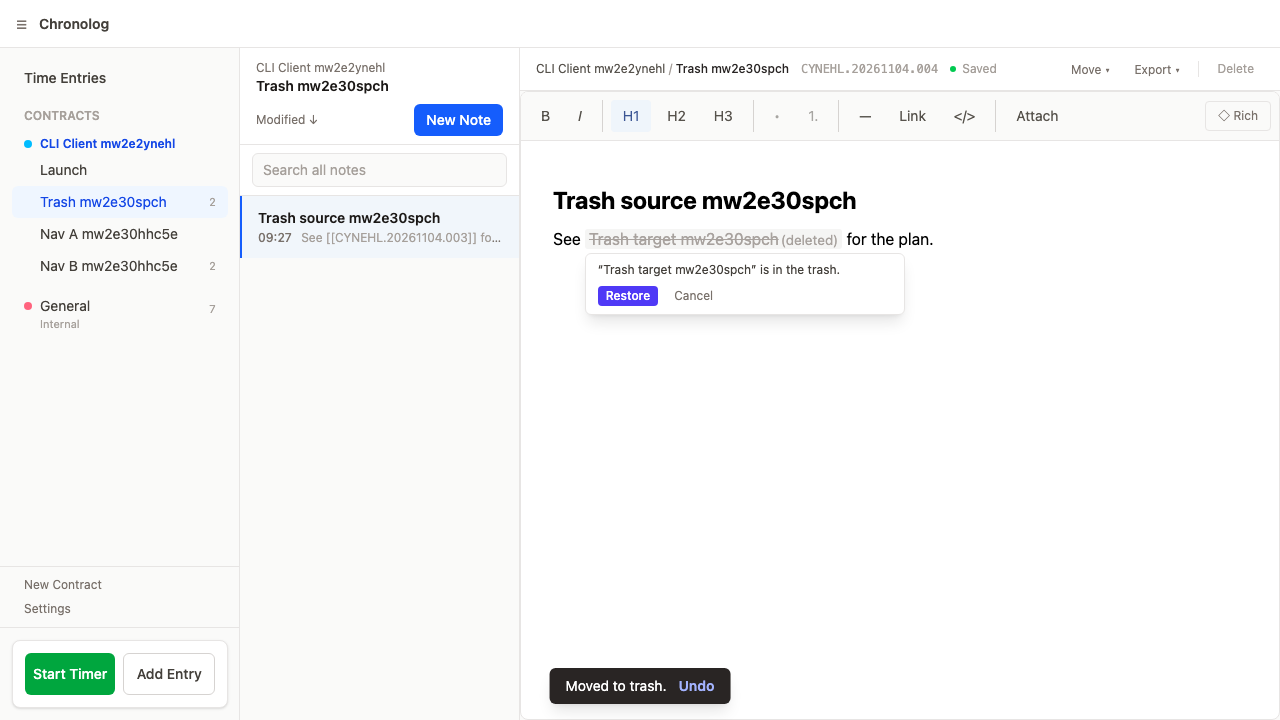
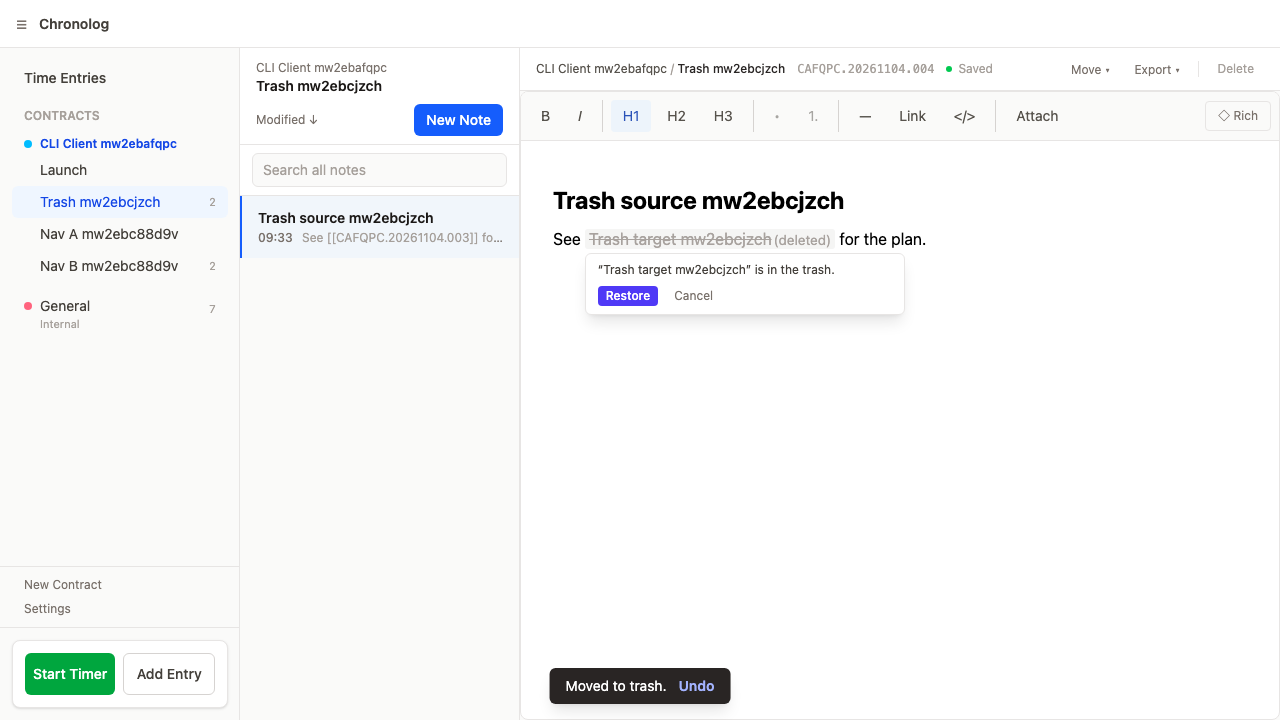
Sprint 037-CL sign-off: ready for review

diff --git a/docs/sprints/sprint-037-CL.md b/docs/sprints/sprint-037-CL.md
@@ -1,6 +1,6 @@
 # Sprint 037 — CL: Server-side trash for notes; word count on create
 
-**Status:** in progress
+**Status:** ready for review (not merged)
 **Branch:** `sprint-037-CL/note-trash` · **Worktree:** `.claude/worktrees/sprint-037-CL` · **Port:** 5215
 **Sources:** owner request 2026-11-04; sprint 034 sign-off (restored notes get a new ID, links dangle; CLI notes store word count 0); backlog journeys A-10 (wiki-links to deleted notes do nothing).
 
@@ -37,3 +37,39 @@ Worktree only. Dev server port 5215 with `BETTER_AUTH_URL=http://localhost:5215`
 ## Verification
 
 Transcript in `docs/review/screenshots/sprint-037/transcript.md` of the e2e sequence through the CLI, a screenshot of a "deleted" wiki-link and of the Undo toast. Sign-off with the read-path audit list, what was done, what was left, test counts, the dev backfill count.
+
+## Sign-off
+
+**2026-11-04, implemented on `sprint-037-CL/note-trash`, rebased onto `main` (`ec40845`, after the sprint 035 merge). Status: ready for review, not merged.**
+
+### What was done
+
+1. **Migration, schema, read paths.** `drizzle/0009_note_trash.sql` (generated): `notes.deleted_at timestamptz null` and `notes_trash_user_id_idx` on `(user_id) where deleted_at is not null`. Applied to the shared dev database (after a `pg_dump` taken from the dev container). Trash, restore, the trash list and the purge live in `queries/note-trash.ts`; `queries/notes.ts` re-exports them and exports `notInTrash`. **Read-path audit** (each excludes trashed rows unless `includeDeleted` is passed; all covered by `src/routes/api/notes/note-trash.test.ts`):
+   - `queries/notes.ts`: `listNotesForContract`, `listNotesForUser` (`GET /api/notes`, both the contract and `updatedSince` forms), `getNoteForUser` (`GET /api/notes/[id]`, attachments `GET/DELETE`, `POST /api/time-entries` with `noteId`, `…/time-entries` routes; `includeDeleted` option), `updateNoteForUser` (`PUT`/`PATCH` are 404 on a trashed note).
+   - `queries/note-search.ts`: `searchNotesForUser` (`/api/notes/search`, `[[` autocomplete, the note list search) and `getNoteTitlesForUser` (`/api/notes/titles`; `includeDeleted=1` adds `deletedAt`).
+   - `queries/note-links.ts`: `getBacklinksForNote` hides trashed sources and is now scoped to the caller (it took no user before; any signed-in user could read another user's backlink titles by note ID). `updateNoteLinks` still treats a trashed target as existing, so links to it are kept and come back on restore.
+   - Time-entry "linked notes": `getLinkedTimeEntriesForNote` is reached only through `getNoteForUser` (404 for a trashed note); the week's wiki-links in entry descriptions resolve through `/api/notes/titles` and render as "deleted".
+   - `queries/contracts.ts` `listContractsByClientWithNoteCount`: sidebar note counts skip trashed notes.
+   - Deliberately unchanged: `getNextNoteId` (sees trashed IDs, so an ID is never reused while its note can come back), `safe-deletion.ts` (a contract delete moves trashed notes too, as the foreign key requires, and counts them), `deleteNoteForUser`'s purge.
+2. **Routes and the browser.** `DELETE /api/notes/[id]` soft-deletes and purges the caller's notes trashed more than 30 days ago in the same transaction (FK cascades take their links, time-entry links and attachments); it returns `deletedAt` and `purgeAt` too. `POST /api/notes/[id]/restore` (404 `not_in_trash`; an archived contract is allowed and reported as `contract.archived`). `GET /api/notes/trash` (id, title, contractId, contract, deletedAt, purgeAt). The browser's Delete uses the same route; `NoteEditorPanel.svelte` shows "Moved to trash. Undo" for ten seconds, and Undo restores and reopens the note. `DataService.restoreNote` added (fetch + delegating). New `note-restored` event: the note list reloads and sidebar counts refresh.
+   - **Addition:** `GET /api/notes/[id]` answers 404 `note_in_trash` for the caller's trashed note (anyone else gets the plain 404), and the CLI turns it into exit 3 "… is in the trash: `chronolog note restore <id>` brings it back" for `note show/edit/append/delete` (`cli/lib/note-fetch.mjs`).
+3. **CLI, skill, docs.** `note delete` calls the API and prints the ID and "Restore with `chronolog note restore <id>` within 30 days"; `note restore <id>` posts to the restore route (exit 3 when not in the trash); `note restore` lists the server trash. `cli/lib/trash.mjs`, its tests and `--contract` on restore are gone; old trash files are left on disk and mentioned once in `cli/readme.md` and the changelog. Skill: the trash-path lines replaced with the 30-day rule (199 lines). `cli/readme.md`, `cli/CHANGELOG.md` (a "Sprint 037-CL" section; the version stays 1.0.0, no bump was asked for), `docs/LAPTOP-SETUP.md`, the notes API, components, db, scripts and e2e READMEs.
+4. **Wiki-links (A-10).** The title cache always asks `titles?…&includeDeleted=1`; a link to a trashed note renders muted and struck through with "(deleted)" in the editor (node view class `wiki-link-deleted`) and in time-entry descriptions (`WikiLinkRenderer`). Clicking it opens a small inline confirm (`note-trash.ts` `showRestorePrompt`): Restore brings the note back and opens it. The backlinks panel hides trashed sources (server side).
+5. **Word count on create, backfill.** `POST /api/notes` counts from `contentJson` when present, else from the markdown. **Addition:** `POST` also indexes the markdown's `[[id]]` links (it did not, so a CLI-written link never showed in the target's backlinks; the e2e's "link B to A" needs it). `scripts/backfill-note-word-counts.mjs` and `scripts/purge-note-trash.mjs` are plain `.mjs` (postgres + `node:crypto`); `scripts/lib/envelope.mjs` and `scripts/lib/word-count.mjs` are the shared copies, and `encrypt-existing.mjs` now imports the envelope from there. The Dockerfile copies `scripts/lib/` and the three scripts. Proven in the production image built from the worktree (`docker run --rm --env-file .env --network host chronolog-037-check node scripts/…`), then the image was removed.
+   - **Dev backfill:** dry run **841** of 848 zero-count notes with content (samples `ACME.20261103.024`, `.027`, `.028`, `.030`, `BIGCH.20260203.001`); `--apply` **updated 841**; a second dry run 0 (the 7 left are browser notes whose TipTap JSON has no words, and the app counts the JSON). Later the count rose again (137 by the end) because sprint 038-CL's dev server on 5216, without this change, was creating notes in the shared database; left for a re-run after the merge.
+6. **Tests.** Unit: `src/routes/api/notes/note-trash.test.ts` (8: create counts markdown and JSON; delete keeps the row, links and entry link, 404 twice and for a stranger's restore, restore brings back backlink and entry link, restore twice 404; archived contract restore reported; trash list per user; purge window 31 vs 29 days with cascade, untouched source and another user's old trash; the exact edge; every read path above including `note_in_trash` and counts), `src/lib/components/notes/note-trash.test.ts` (4, jsdom: cache asks `includeDeleted`, node view class flips, prompt restore/failure/cancel, `restoreTrashedNote`), `scripts/script-lib.test.ts` (15: envelope both ways, wrong key, word counters agree on 7 markdown and 5 JSON fixtures), CLI delete/restore/list/`note_in_trash` (6, replacing the 4 trash-file tests), `fetch-data-service` `restoreNote`. API e2e `src/e2e/note-trash-cli.e2e.test.ts` (3) and the 034 CLI e2e updated to the server trash. Playwright `e2e-playwright/note-trash.spec.ts` (chromium and webkit).
+
+### Verification
+
+After the rebase: `npm run check` 0 errors (the 3 existing warnings in `src/routes/+layout.svelte`), `npm run lint` clean, `npm test` **844 passed in 80 files**, API e2e against `http://localhost:5215` (`E2E_USER_PREFIX=qa-037-e2e`) **101 passed in 15 files**, Playwright (`qa-037-pw`) **94 passed, 5 skipped** (the existing chromium-only offline tests under webkit).
+
+Transcript: `docs/review/screenshots/sprint-037/transcript.md` (the CLI sequence: create with word count, B links A, entry linked, delete refused then done, `note show` exit 3 with the restore hint, trash list, titles with `deletedAt`, restore with backlink and entry intact, second restore exit 3; then the container backfill and purge runs). Screenshots: `01-deleted-wiki-link.png`, `02-undo-toast.png`, `03-restore-prompt.png`.
+
+### Left, and notes
+
+- **Production steps after merge and deploy:** back up, then `docker exec chronolog-prod-app node scripts/backfill-note-word-counts.mjs --dry-run` and `--apply`. The migration runs on container start.
+- No UI lists the trash in the browser; it is reachable from the Undo toast, a "deleted" wiki-link, or the CLI (`note restore`). A trash view would be a small follow-up on `GET /api/notes/trash`.
+- On a phone the panel that holds the Undo toast unmounts when the delete returns to the list, so the toast is mostly a desktop affordance; restore still works from links and the CLI.
+- `NoteEditorPanel.svelte` is now 526 lines (was 471); the restore logic is in `note-trash.ts`, but the panel itself is due a split.
+- The backlog line for A-10 in `docs/backlog.md` can be closed at merge (left for the main session; outside this sprint's files).
+- QA users `qa-037-*` and their notes remain in the shared dev database (unit-test users are cleaned up). A dev backup from before the migration is in the session scratchpad (`s037/dev-pre-037.dump`).
